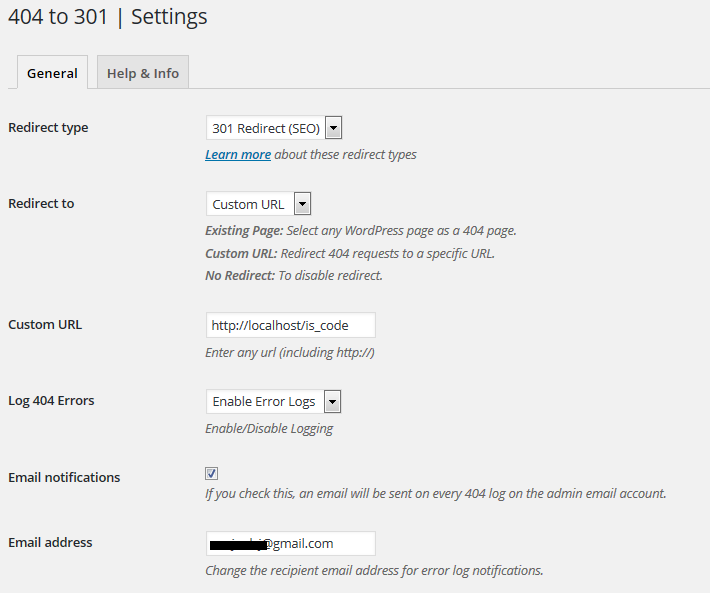
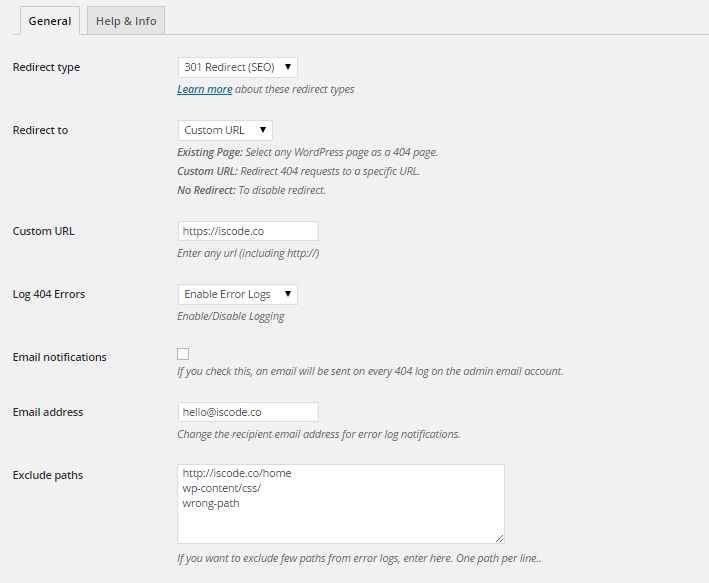
Fixed issue - Empty needle issue after 2.0.8 update.

diff --git a/public/class-404-to-301-public.php b/public/class-404-to-301-public.php
@@ -114,13 +114,15 @@ class _404_To_301_Public {
 	public function i4t3_redirect_404() {
 		
 		// Check if 404 page and not admin side
-		if ( is_404() && !is_admin() ) {
+		if ( is_404() && !is_admin() && !$this->i4t3_excluded_paths() ) {
 			
 			// Get the settings options
-			$logging_status = ( $this->gnrl_options['redirect_log'] ) ? $this->gnrl_options['redirect_log'] : 1;
+			$logging_status = ( !empty( $this->gnrl_options['redirect_log'] ) ) ? $this->gnrl_options['redirect_log'] : 0;
+			
 			$redirect_type = ( $this->gnrl_options['redirect_type'] ) ? $this->gnrl_options['redirect_type'] : '301';
 			// Get the email notification settings
-			$is_email_send = ( !empty( $this->gnrl_options['email_notify'] ) ) ? true : false;
+			$is_email_send = ( !empty( $this->gnrl_options['email_notify'] ) && $this->gnrl_options['email_notify'] == 1 ) ? true : false;
+
 			// Get error details if emailnotification or log is enabled
 			if( $logging_status == 1 || $is_email_send ) {
 				
@@ -148,7 +150,7 @@ class _404_To_301_Public {
 			}
 
 			// Add log data to db if log is enabled by user
-			if($logging_status == 1 && !$this->i4t3_is_bot() && !$this->i4t3_exclude_user_feedback() ) {
+			if($logging_status == 1 && !$this->i4t3_is_bot()) {
 			
 				$wpdb->insert( $this->table, $data );
 				
@@ -213,13 +215,13 @@ class _404_To_301_Public {
 	public function i4t3_is_bot() {
 	
 		$botlist = array("Teoma", "alexa", "froogle", "Gigabot", "inktomi",
-		"looksmart", "URL_Spider_SQL", "Firefly", "NationalDirectory",
-		"Ask Jeeves", "TECNOSEEK", "InfoSeek", "WebFindBot", "girafabot",
-		"crawler", "www.galaxy.com", "Googlebot", "Scooter", "Slurp",
-		"msnbot", "appie", "FAST", "WebBug", "Spade", "ZyBorg", "rabaz",
-		"Baiduspider", "Feedfetcher-Google", "TechnoratiSnoop", "Rankivabot",
-		"Mediapartners-Google", "Sogou web spider", "WebAlta Crawler","TweetmemeBot",
-		"Butterfly","Twitturls","Me.dium","Twiceler");
+						"looksmart", "URL_Spider_SQL", "Firefly", "NationalDirectory",
+						"Ask Jeeves", "TECNOSEEK", "InfoSeek", "WebFindBot", "girafabot",
+						"crawler", "www.galaxy.com", "Googlebot", "Scooter", "Slurp",
+						"msnbot", "appie", "FAST", "WebBug", "Spade", "ZyBorg", "rabaz",
+						"Baiduspider", "Feedfetcher-Google", "TechnoratiSnoop", "Rankivabot",
+						"Mediapartners-Google", "Sogou web spider", "WebAlta Crawler","TweetmemeBot",
+						"Butterfly","Twitturls","Me.dium","Twiceler");
 	 
 		foreach($botlist as $bot){
 			if(strpos($_SERVER['HTTP_USER_AGENT'],$bot)!==false)
@@ -231,24 +233,26 @@ class _404_To_301_Public {
 	
 	
 	/**
-	* Exclude specific uri strings from error logs
+	* Exclude specific uri strings/paths from errors
 	*
 	* @retun 	True if requested uri matches specified one
-	* @since    2.0.5
+	* @since    2.0.8
 	* @author	Joel James
 	*/
-	public function i4t3_exclude_user_feedback() {
+	public function i4t3_excluded_paths() {
 		
 		// Add links to be excluded in this array.
-		$links = array(
-			"plugins/user-feedback/css/src"
-		);
-		
-		foreach( $links as $link ){
-			if( strpos($_SERVER['REQUEST_URI'], $link )!== false )
-			return true;
+		$links_string = $this->gnrl_options['exclude_paths'];
+		if( empty( $links_string ) ) {
+			return false;
 		}
-		
+		$links = explode( "\n", $links_string );
+		if( !empty( $links ) ) {
+			foreach( $links as $link ){
+				if( strpos( $_SERVER['REQUEST_URI'], trim($link) )!== false )
+				return true;
+			}
+		}
 		return false;
 	}
 

diff --git a/admin/class-404-to-301-logs.php b/admin/class-404-to-301-logs.php
@@ -5,7 +5,7 @@ if ( ! defined( 'WPINC' ) ) {
 }
 
 /**
- * WP_List_Table is marked as private by WordPress. So they change it.
+ * WP_List_Table is marked as private by WordPress. So they may change it.
  * Details here - https://codex.wordpress.org/Class_Reference/WP_List_Table
  * So we have copied this class and using independently to avoid future issues. 
  */
@@ -67,8 +67,6 @@ class _404_To_301_Logs extends WP_List_Table_404 {
             'ajax'      => false        //does this table support ajax?
           )
         );
-
-        $this->process_bulk_action(); // To perform bulk delete action
     }
 
     /**
@@ -347,6 +345,7 @@ class _404_To_301_Logs extends WP_List_Table_404 {
         );
 
         $this->items = $this->log_data;
+		$this->process_bulk_action(); // To perform bulk delete action
     }
 
 
@@ -376,35 +375,13 @@ class _404_To_301_Logs extends WP_List_Table_404 {
             if ( ! wp_verify_nonce( $nonce, $action ) )
                 wp_die( 'Nope! Security check failed!' );
 
-            $action = $this->current_action();
-			if( $action == 'clear' ) {
-				$this->clear_404_logs();
+			else if( 'clear' === $this->current_action() ) {
+				global $wpdb;
+				// Let us hide sql query errors if any
+				$wpdb->hide_errors();
+				$total = $wpdb->query( "DELETE FROM $this->table" );
 			}
         }
 
     }
-
-    /**
-     * To perform clear logs.
-     *
-     * This function is used to clear the entire log from db. This function is called
-     * from process_bulk_action() method.
-     * This function will delete the entire data from our log table and this can't be UNDONE.
-     *
-     * @since   2.0.0
-     * @author  Joel James.
-     * @retun   true if deleted something, else false.
-     */
-    public function clear_404_logs() {
-
-        global $wpdb;
-        // Let us hide sql query errors if any
-        $wpdb->hide_errors();
-        $total = $wpdb->query( "DELETE FROM $this->table" );
-        if ( $total > 0 ) {
-			wp_redirect(admin_url('admin.php?page=i4t3-logs'));
-			exit();
-		}
-    }
-
 }

diff --git a/404-to-301.php b/404-to-301.php
@@ -3,7 +3,7 @@
  * Plugin Name:       404 to 301
  * Plugin URI:        http://iscode.co/products/404-to-301/
  * Description:       Automatically redirect all <strong>404 errors</strong> to any page using <strong>301 redirect for SEO</strong>. You can <strong>redirect and log</strong> every 404 errors. No more 404 errors in Webmaster tool.
- * Version:           2.0.7
+ * Version:           2.0.9
  * Author:            Joel James
  * Author URI:        http://iscode.co/
  * Donate link:		  https://www.paypal.com/cgi-bin/webscr?cmd=_s-xclick&hosted_button_id=XUVWY8HUBUXY4
@@ -52,7 +52,7 @@ if(!defined('I4T3_DB_VERSION')) {
 	define( 'I4T3_DB_VERSION', '3' );
 }
 if(!defined('I4T3_VERSION')) {
-	define( 'I4T3_VERSION', '2.0.7' );
+	define( 'I4T3_VERSION', '2.0.9' );
 }
 // Set who all can access 404 settings. You can change this if you want to give others access.
 if(!defined('I4T3_ADMIN_PERMISSION')) {

diff --git a/includes/class-404-to-301-activator.php b/includes/class-404-to-301-activator.php
@@ -34,8 +34,9 @@ class _404_To_301_Activator {
 		$i4t3_enable		= self::transfer( '', 'redirect_log', 1 );
 		$i4t3_to			= self::transfer( '', 'redirect_to', 'link' );
 		$i4t3_page			= self::transfer( '', 'redirect_page', '' );
-		$i4t3_notify		= self::transfer( '', 'email_notify', 1 );
+		$i4t3_notify		= self::transfer( '', 'email_notify', 0 );
 		$i4t3_notify_email	= self::transfer( '', 'email_notify_address', get_option( 'admin_email' ) );
+		$i4t3_exclude		= self::transfer( '', 'exclude_paths', '' );
 
 		// New general settings array to be added
 		$i4t3GnrlOptions = array( 
@@ -45,7 +46,8 @@ class _404_To_301_Activator {
 					'redirect_to' => $i4t3_to,
 					'redirect_page' => $i4t3_page,
 					'email_notify' => $i4t3_notify,
-					'email_notify_address' => $i4t3_notify_email
+					'email_notify_address' => $i4t3_notify_email,
+					'exclude_paths' => $i4t3_exclude
 				);	
 
 		/**

diff --git a/admin/partials/404-to-301-admin-general-tab.php b/admin/partials/404-to-301-admin-general-tab.php
@@ -91,6 +91,13 @@
 						<p class="description"><?php _e( 'Change the recipient email address for error log notifications', '404-to-301' ); ?>.</p>
 					</td>
 				</tr>
+				<tr>
+					<th><?php _e( 'Exclude paths', '404-to-301' ); ?></th>
+					<td>
+						<textarea rows="5" cols="50" placeholder="http://example.com&#13;&#10;wp-content/plugins/abc-plugin/css/" name="i4t3_gnrl_options[exclude_paths]"><?php echo $options['exclude_paths']; ?></textarea>
+						<p class="description"><?php _e( 'If you want to exclude few paths from error logs, enter here. One per line.', '404-to-301' ); ?>.</p>
+					</td>
+				</tr>
 			</tbody>
 		</table>
 		<?php submit_button( __( 'Save All Changes', '404-to-301' ) ); ?>

diff --git a/includes/class-404-to-301.php b/includes/class-404-to-301.php
@@ -67,7 +67,7 @@ class _404_To_301 {
 	public function __construct() {
 
 		$this->plugin_name = '404-to-301';
-		$this->version = '2.0.7';
+		$this->version = '2.0.9';
 		$this->table = $GLOBALS['wpdb']->prefix . '404_to_301';
 		$this->load_dependencies();
 		$this->set_locale();
